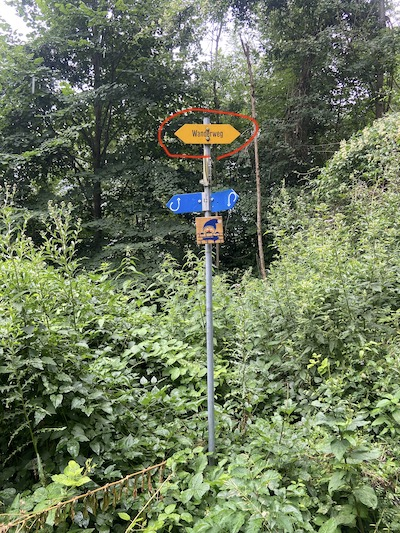
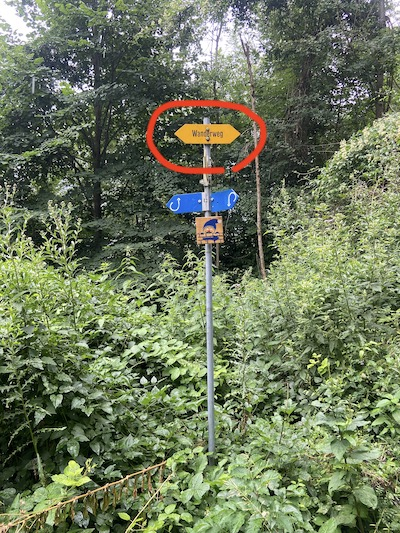
fix marker pictures

Changed region(s): [[0.36, 0.1801, 0.69, 0.3302]]

diff --git a/_pages/ViaAlpinaGreen.md b/_pages/ViaAlpinaGreen.md
@@ -9,7 +9,6 @@ redirect_from:
 ---
 
 
-# Intro
 Via Alpina Green is a through-hiking trail that traverses Switzerland. It is a part of the longer [Via Alpina Trail](http://www.via-alpina.org/en/) which traverses the Alps from Monaco to Slovenia. It is also labeled as the Swiss National Route 1. Hikers starts in Vaduz (Liechtenstein) and finishes in Montreux, crossing 14 mountain passes (saddle point of mountain ridges). The trail is divided into 20 sections with each section connecting one town to another. All these towns are accessible by public transit during the summer and have hotels and restaurants. Furthermore, hikers have the option to take funicular train / bus / cable car to skip through some parts of the hike, reducing the elevation gain / loss to accommodate one’s fitness level. I took these public transits at times to skip some steep parts / speed up the hike to make sure I finish in time / avoid getting rained on. This article is written with the intention to provide my own perspectives and to complement other existing online resources like the [official Via Alpina Green website by Swiss tourism](https://www.myswitzerland.com/en-us/experiences/summer-autumn/hiking/via-alpina/) or [Fabienne and Benoit's blog](https://www.novo-monde.com/en/backpacking-switzerland/via-alpina-hike/).
 
 # Planning the trip
@@ -36,7 +35,7 @@ My favorite weather for hiking is partially cloudy partially sunny. Unlike some 
 
 The cost of the lodgings ranges from USD 69 to USD 160 per night. I suppose one can further reduce the cost by staying at shared rooms and dormitary style [youth hostels](https://www.youthhostel.ch/en/hostels/), but that was not an option for me due to health issues. In general, cheaper options (youth hostels and cheap hotels) in towns on the Via Alpina route get booked out 2-3 months before the travel dates, but one can always get a more expensive one or book lodgings farther away from the trail (excluding the 5 remote towns Urnerboden, Engstlenalp, Griesalp, L’Etivaz, and Rochers de Naye). One advantage of staying at Airbnbs is the ease of doing laundry, as laundry service at hotels is not something I can / want to afford (often costs 5-10 franc per *piece of garment*, and takes more than 24h). Airbnbs are not really an option in the Grindelwald-Lauterbrunnen-Griesalp area, but I managed to find [a public laundry in Wengen](https://maps.app.goo.gl/QqtAKrqsjQBAjgNT6?g_st=ic).
 
-I highly recommend using the extremely convenient and reliable [SBB Mobile app](https://apps.apple.com/app/id294855237) to look up public transit schedules before booking lodgings that require transit. I bought a [half-fare card for all Swiss public transport](https://www.swiss-pass.ch/swiss-half-fare-card/) upon arrival at Zürich airport, which was a good deal as I was taking lots of public transit during my trip. Note: I did encounter a mishap where SBB canceled the trains that I was planning to take. To SBB’s credit, they only canceled the trains from 21h-00h due to engineering work. I was saved by a friend who lives nearby and let me crash in short notice for a night. Thank you, Theo.
+I highly recommend using the extremely convenient and reliable [SBB Mobile app](https://apps.apple.com/app/id294855237) to look up public transit schedules (frequency and duration of the trip) before booking lodgings that require transit. I bought a [half-fare card for all Swiss public transport](https://www.swiss-pass.ch/swiss-half-fare-card/) upon arrival at Zürich airport, which was a good deal as I was taking lots of public transit during my trip. Note: I did encounter a mishap where SBB canceled the trains that I was planning to take. To SBB’s credit, they only canceled the trains from 21h-00h due to engineering work. I was saved by a friend who lives nearby and let me crash in short notice for a night. Thank you, Theo.
 
 ### Training for the hikes
 I did my best to hike as much as possible during the 2-3 months leading up to my trip. In particular, I hiked every weekend with 8-13 miles and 2k-4k ft elevation gain each time. If I could re-do it, I would add (a) hiking for 2-3 consecutive days and (b) getting used to trekking poles to my training schedule. 
@@ -48,15 +47,14 @@ Restaurants in Switzerland are expensive. I buy food from grocery stores to keep
 There are many water fountains along hiking trails in Switzerland. In addition, one can often find little creeks on the trail for filtering water. I usually took 2L of water with me and I refilled whenever I encountered water source. (Note: I did take public transit to skip some steep sections and cannot report conditions of those sections.)
 
 ### Navigation
-I highly recommend [Switzerland Mobility app](https://apps.apple.com/app/id527194959) which is the official network for non-motorized traffic in Switzerland. Along the way you will also find clear signposts indicating the direction of “wanderweg” (walking trail) or “bergwanderweg / chemin de randonnée” (hiking trail), as well as white-red-white paint on rocks or trees or fences, or a yellow diamond-shaped marker. Here are some example:
-![marker](/images/MyViaAlpinaExperience/marker1.JPG)  
-![marker](/images/MyViaAlpinaExperience/marker2.JPG)  
-![marker](/images/MyViaAlpinaExperience/marker3.JPG)  
-![marker](/images/MyViaAlpinaExperience/marker4.JPG)  
-![marker](/images/MyViaAlpinaExperience/marker5.JPG)  
-![marker](/images/MyViaAlpinaExperience/marker6.JPG)  
-![marker](/images/MyViaAlpinaExperience/marker7.JPG)  
-![marker](/images/MyViaAlpinaExperience/marker8.JPG)  
+I highly recommend [Switzerland Mobility app](https://apps.apple.com/app/id527194959) which is the official network for non-motorized traffic in Switzerland. Along the way you will also find clear signposts indicating the direction of “wanderweg” (walking trail) or “bergwanderweg / chemin de randonnée” (hiking trail), as well as white-red-white paint on rocks or trees or fences, or a yellow diamond-shaped marker. Here are some examples:
+![marker](/images/MyViaAlpinaExperience/marker1.JPG)
+![marker](/images/MyViaAlpinaExperience/marker2.JPG)
+![marker](/images/MyViaAlpinaExperience/marker3.JPG)
+![marker](/images/MyViaAlpinaExperience/marker4.JPG)
+![marker](/images/MyViaAlpinaExperience/marker5.JPG)
+![marker](/images/MyViaAlpinaExperience/marker6.JPG)
+![marker](/images/MyViaAlpinaExperience/marker7.JPG)
 
 ### Backpack content
 See [my Lighterpack list](https://lighterpack.com/r/90onsm) for the complete content of my backpack and the weight of each item. I intentionally chose to bring only 3 sets of clothing including the set I was wearing. I spent a lot of time doing laundry during this trip, but I got to pack light (28L backpack) so I could finish some long stretches as day-hikes with all my gears on my back. I bought the trekking poles after having my quadriceps destroyed by the 1450m (4756ft) elevation loss from Weisstannen - Elm, and wish that I had bought them at the beginning.  
